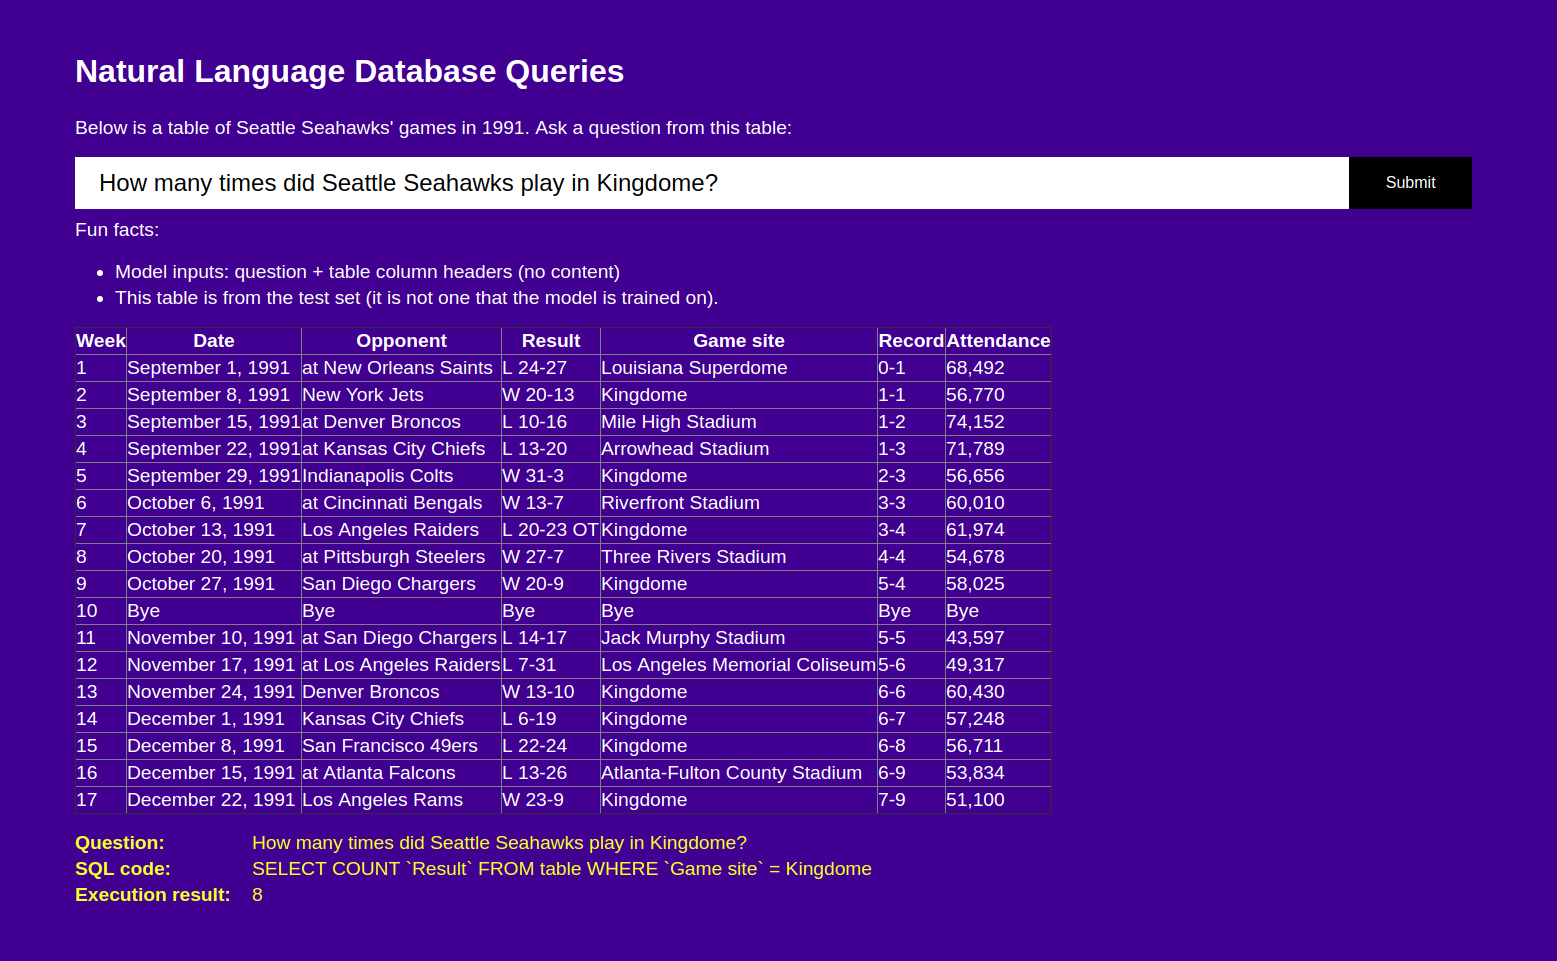
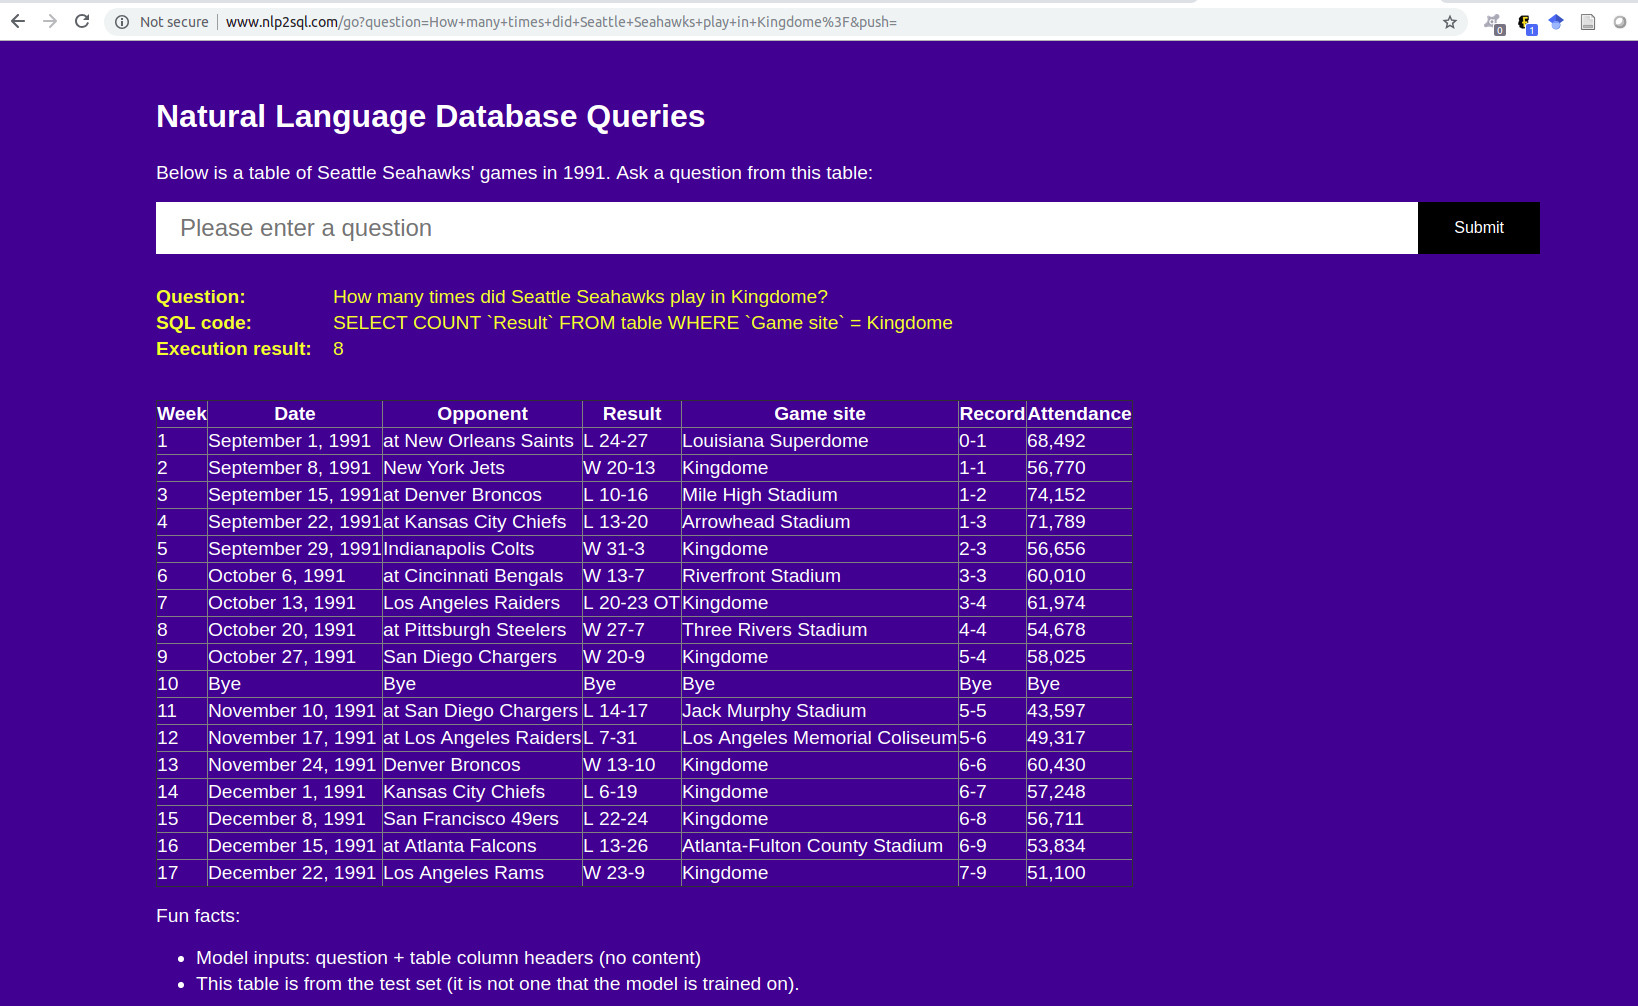
updated FlaskApp files

Changed region(s): [[0.0, 0.0, 1.0, 0.999]]

diff --git a/flaskapp/templates/master.html b/flaskapp/templates/master.html
@@ -27,14 +27,18 @@
             <button type="submit" name="push">Submit</button>
         </form>
 
-        <br><br>
-        <p><big>
-            Fun facts:
+        <br><br><br>
+        {% block content %}
+        <p>
+            <h3>Questions you may ask:</h3>
             <ul>
-                <li>Model inputs: question + table column headers (no content)</li>
-                <li>This table is from the test set (it is not one that the model is trained on).</li>
+                {% for q in questions %}
+                    <li><big>{{ q }}</big></li>
+                {% endfor %}
             </ul>
-        </big></p>
+        </p>
+        {% endblock %}
+        <br>
 
         <table border="1" cellpadding="10" cellspacing="5">
             <tr>
@@ -51,16 +55,13 @@
             {% endfor %}
         </table>
 
-        {% block content %}
-        <p>
-            <h3>Questions you may ask:</h3>
+        <p><big>
+            Fun facts:
             <ul>
-                {% for q in questions %}
-                    <li><big>{{ q }}</big></li>
-                {% endfor %}
+                <li>Model inputs: question + table column headers (no content)</li>
+                <li>This table is from the test set (it is not one that the model is trained on).</li>
             </ul>
-        </p>
-        {% endblock %}
+        </big></p>
 
         <script src="https://code.jquery.com/jquery-1.12.0.min.js"></script>
         <script>window.jQuery || document.write('<script src="js/vendor/jquery-1.12.0.min.js"><\/script>')</script>
